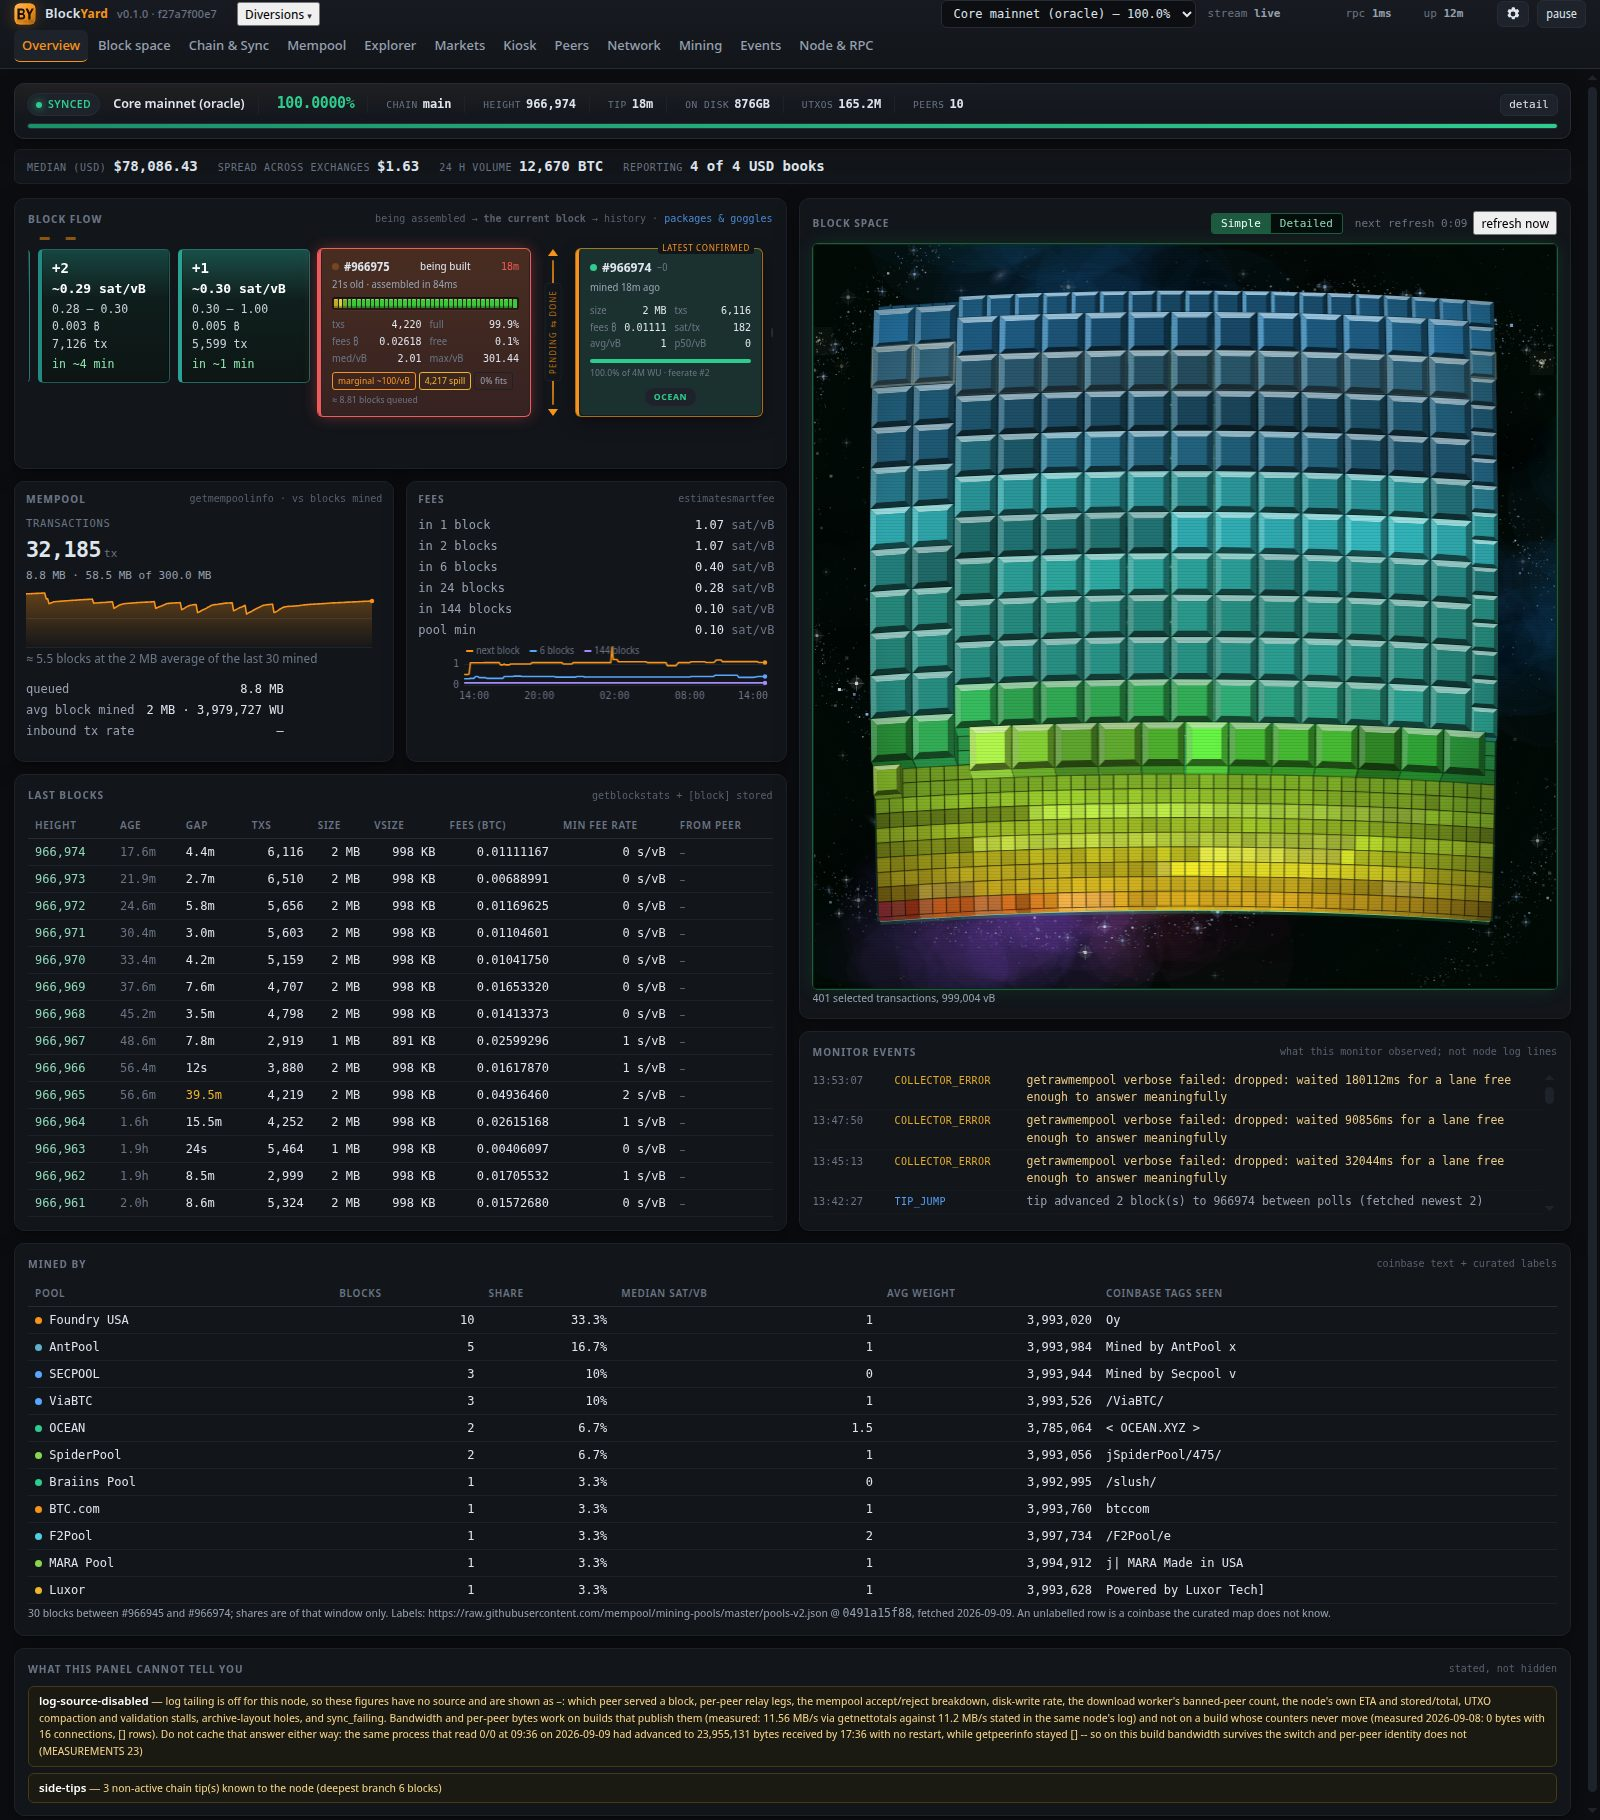
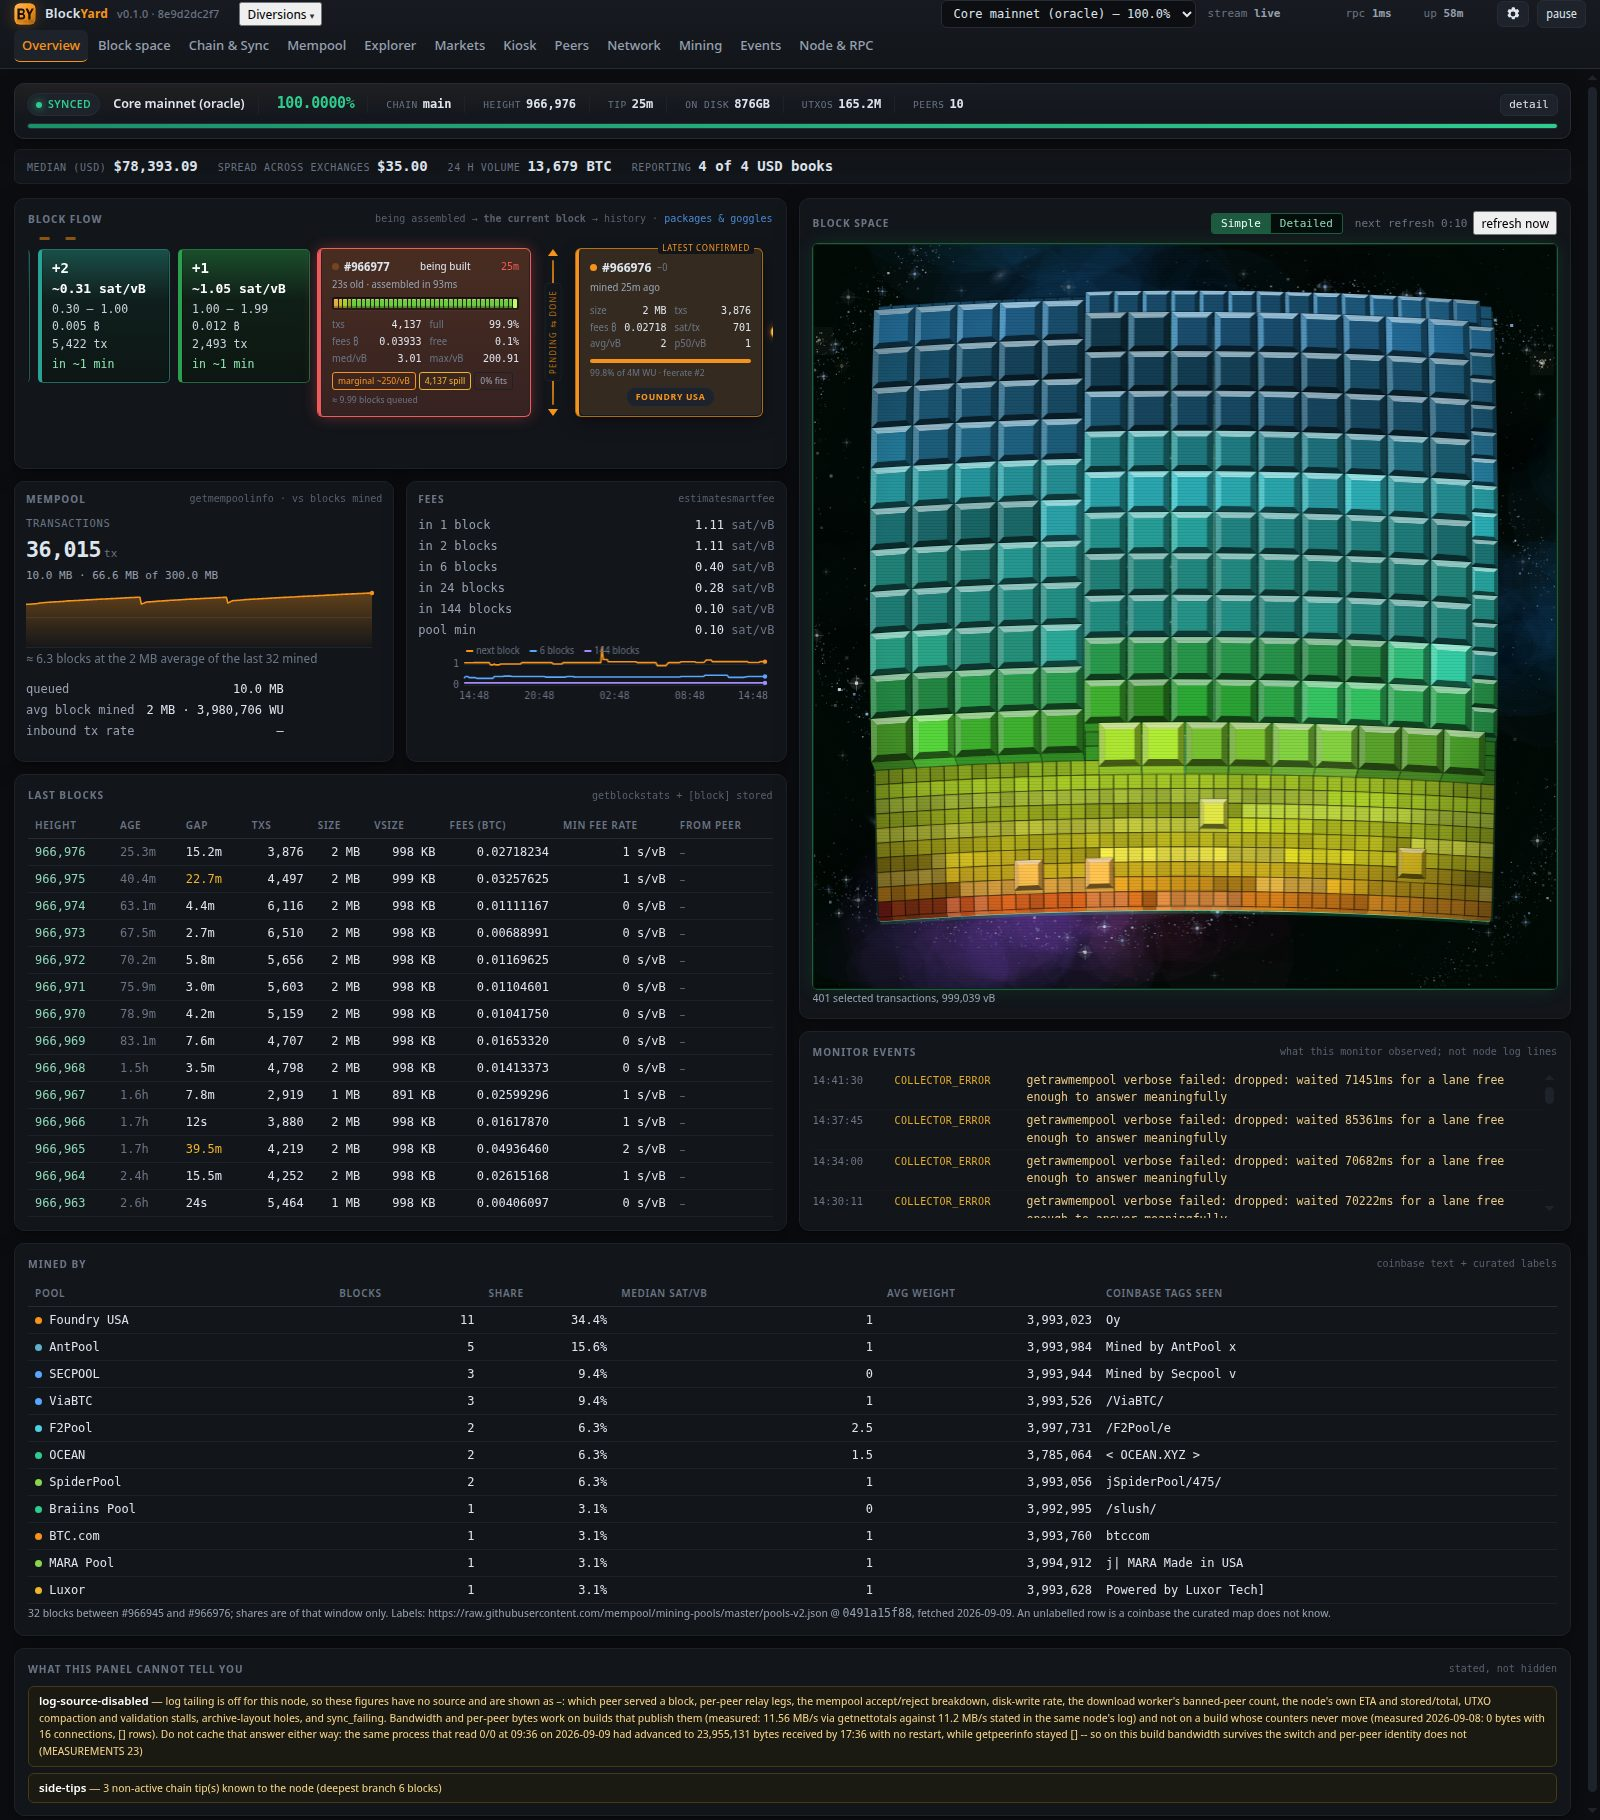
block flow: a chain that reads as one; about: the donation address, copied on a click
- The links between the block cards were two pale outlined pills that vanished on the dark
  panel (operator: "looks bad on a black background. Re-do it to be much more stylized and
  visible"). They are two interlocked links of a chain now: accent-coloured tubes with a bright
  highlight and a glow, the left link's top strand painted again over the right so the pair
  weaves. Inline SVG from mining.js (LINK), styled in app.css; the overview screenshot re-shot.
- The About page carries the donation address as a pill under the GitHub link; clicking it
  copies the address (fmt.copyText: navigator.clipboard in a secure context, select-and-copy on
  plain http), turns the hint to "copied" and toasts. Verified in a headless browser with
  clipboard permission: the clipboard reads back the address after one click. The address is
  the README's, and the test says so. scripts/shots.mjs can capture About.

Claude-Session: https://claude.ai/code/session_01VUGT6cgEeqoW8d5V7E6Vng

diff --git a/public/css/app.css b/public/css/app.css
@@ -106,6 +106,16 @@ button.brand:focus-visible { outline: 2px solid var(--accent); outline-offset: 3
 .abgh { display: inline-flex; align-items: center; gap: 10px; align-self: flex-start; padding: 9px 15px; border-radius: 999px;
   border: 1px solid #2a3543; background: rgba(8, 12, 18, .8); color: var(--fg); text-decoration: none; font-size: 13px; }
 .abgh:hover { border-color: var(--accent); color: var(--accent); }
+/* the donation address: the same pill, and the whole thing is the copy button */
+.abdon { display: inline-flex; align-items: center; flex-wrap: wrap; gap: 8px 12px; align-self: flex-start; padding: 9px 15px; border-radius: 999px;
+  border: 1px solid #2a3543; background: rgba(8, 12, 18, .8); color: var(--fg); font: inherit; font-size: 13px; cursor: pointer; text-align: left; }
+.abdon code { font-size: 12px; letter-spacing: .2px; color: var(--accent); }
+.abdon .abdonhint { font-size: 11px; color: var(--fg-faint); }
+.abdon:hover { border-color: var(--accent); }
+.abdon:hover .abdonhint { color: var(--fg-dim); }
+.abdon.done { border-color: var(--ok, #35c26f); }
+.abdon.done .abdonhint { color: var(--ok, #35c26f); }
+@media (max-width: 620px) { .abdon { border-radius: 14px; } }
 /* Solid white, not the dim grey the other captions use (operator, 2026-09-12) -- it is the
    one line on the page that is a statement rather than a reading. */
 .abcredit { margin: 0; padding-top: 6px; color: #ffffff; font-size: 13px; font-style: italic; letter-spacing: .3px; text-shadow: 0 1px 8px #000; }
@@ -966,21 +976,23 @@ canvas.chart.xs, .chart.xs { height: 86px }
 .bcard.ghost { background: transparent; box-shadow: none; }
 
 /* --- the chain ----------------------------------------------------------
-   Two interlocking links, drawn in the gap between cards. This is a picture of
-   what the cards describe: each block commits to the one before it. */
+   Two interlocking links of a real chain, drawn in the gap between cards: a
+   picture of what the cards describe -- each block commits to the one before
+   it. Accent-coloured tubes with a highlight and a glow, because the pale
+   outlines this used to be vanished against the dark panel (operator,
+   2026-09-14: "looks bad on a black background ... much more stylized and
+   visible"). The markup is an inline SVG in mining.js (LINK). */
 .chainlink {
   flex: 0 0 auto; align-self: center; position: relative;
-  width: 20px; height: 14px; margin: 0 -1px;
+  width: 34px; height: 20px; margin: 0 -2px;
 }
-.chainlink i {
-  position: absolute; top: 50%; width: 13px; height: 9px;
-  margin-top: -4.5px; border: 1.5px solid var(--line);
-  border-radius: 3px; background: transparent;
+.chainlink svg {
+  display: block; width: 100%; height: 100%; overflow: visible;
+  filter: drop-shadow(0 0 3px rgba(247, 147, 26, .55)) drop-shadow(0 1px 1px rgba(0, 0, 0, .6));
 }
-.chainlink i:first-child { left: 0; }
-/* the second ring overlaps the first, and is painted over it, which is what
-   makes the pair read as INTERLOCKED rather than as two boxes in a row */
-.chainlink i:last-child { right: 0; border-color: var(--fg-faint); }
+.chainlink .cl-base, .chainlink .cl-hi { fill: none; stroke-linecap: round; }
+.chainlink .cl-base { stroke: var(--accent-dim); stroke-width: 3.4; }
+.chainlink .cl-hi { stroke: #ffc862; stroke-width: 1.3; }
 
 /* --- the block being built ----------------------------------------------
    The coloured ring belongs HERE, not on the tip: it says how long this block
@@ -1040,16 +1052,8 @@ canvas.chart.xs, .chart.xs { height: 86px }
 .flowside.todo, .flowside.done { padding-top: 0; }
 
 /* --- the chain, made visible ---------------------------------------------
-   At 13px the links read as two pale pills. They are the one piece of this
-   panel that says what the panel IS -- each block commits to the one before
-   it -- so they get room and contrast. */
-.chainlink { width: 26px; height: 18px; }
-.chainlink i {
-  width: 17px; height: 11px; margin-top: -5.5px;
-  border: 2px solid var(--fg-faint); border-radius: 4px;
-}
-.chainlink i:first-child { left: 0; border-color: var(--line) }
-.chainlink i:last-child { right: 0; border-color: var(--fg-dim) }
+   The one piece of this panel that says what the panel IS, so it gets room. */
+.chainlink { width: 40px; height: 22px; }
 
 /* --- the row may exceed the panel; a chopped card is not a design ---------
    `.flow { width: 100% }` above contradicted the comment right beside it: the

diff --git a/test/about.test.js b/test/about.test.js
@@ -15,6 +15,8 @@ const api = read('../server/http/api.js');
 const app = read('../public/js/app.js');
 const css = read('../public/css/app.css');
 const about = read('../public/js/about.js');
+const fmt = read('../public/js/fmt.js');
+const readme = read('../README.md');
 
 test('the monogram IS the About link, and it satisfies the same contract a nav tab does', () => {
   // It lives outside <nav>, so it cannot inherit the nav's delegated click handler.
@@ -37,6 +39,16 @@ test('About shows what the operator asked for, and nothing is a placeholder', ()
   assert.match(section, /github\.com\/BobClawblaw\/blockyard/, 'a link to the project');
   assert.match(section, /<svg viewBox="0 0 16 16"[^>]*>[\s\S]*?<\/svg>/, 'the GitHub mark, drawn inline');
   assert.match(section, /Entirely made by machines\. Directed by human hands\./, 'the closing line, verbatim');
+  // the donation address, and one click copies it (operator, 2026-09-14: "Add the bitcoin donation
+  // address to the about screen ... Clicking on the address should copy to clipboard")
+  const ADDR = 'bc1q249cv27lc2q7y0x53vkczgfvvgsjzhwxwv42gc';
+  assert.match(section, new RegExp(`<button type="button" class="abdon" id="abDonate" data-copy="${ADDR}"`), 'the address is a button carrying itself to copy');
+  assert.ok(section.includes(`<code>${ADDR}</code>`), 'and shown in full');
+  assert.ok(readme.includes(ADDR), 'the same address the README gives');
+  assert.match(about, /getElementById\('abDonate'\)/, 'about.js finds it');
+  assert.match(about, /copyText\(btn\.dataset\.copy\)/, 'and copies what it carries');
+  assert.match(about, /bindDonate\(h\)/, 'from the render');
+  assert.match(fmt, /export function copyText/, 'the copy helper is shared from fmt.js');
   // the galaxy is forced on here rather than following the sky switch: this page has no data for
   // it to obscure, which is the whole reason it is the backdrop
   assert.match(about, /stars: true, galaxy: true/, 'the galaxy is on for About regardless of the board switches');

diff --git a/public/js/mining.js b/public/js/mining.js
@@ -640,7 +640,18 @@ export function blockFlow(el, { tipHeight = null, recent = [], stats = [], next 
 // The link between two blocks in the train. It is a picture of the thing the cards
 // are actually describing -- each block commits to the one before it -- and it is
 // markup rather than a ::before so the row's flex gaps stay predictable.
-const LINK = '<span class="chainlink" aria-hidden="true"><i></i><i></i></span>';
+// Drawn as two INTERLOCKED links of a real chain (operator, 2026-09-14: "That chain graphic between
+// the blocks looks bad on a black background. Re-do it to be much more stylized and visible"): each
+// link is a dark accent tube with a bright highlight along it, and the left link's top strand is
+// painted again over the right link so the pair weaves -- over at the top, under at the bottom.
+const CHAIN_SVG = (() => {
+  const a = '<rect x="2" y="4.5" width="20" height="11" rx="5.5"/>';
+  const b = '<rect x="16" y="4.5" width="20" height="11" rx="5.5"/>';
+  const weave = '<path d="M16.5 4.5a5.5 5.5 0 0 1 5.5 5.5"/>';
+  const tube = (shape) => `<g class="cl-base">${shape}</g><g class="cl-hi">${shape}</g>`;
+  return `<svg viewBox="0 0 38 20" aria-hidden="true">${tube(a)}${tube(b)}${tube(weave)}</svg>`;
+})();
+const LINK = `<span class="chainlink" aria-hidden="true">${CHAIN_SVG}</span>`;
 
 /*
  * THE FORECAST SLIVERS ARE GONE (2026-09-11, operator: "too much space is

diff --git a/public/js/about.js b/public/js/about.js
@@ -12,6 +12,7 @@
 // watching costs one cheap repaint rather than a megapixel one.
 import { board3d } from './details3d.js';
 import { loadSettings, spaceOptions } from './settings.js';
+import { copyText } from './fmt.js';
 
 const SKY = {
   gridW: 24, gridH: 16,
@@ -50,8 +51,21 @@ const esc = (s) => String(s ?? '').replace(/[&<>"]/g, (c) => ({ '&': '&amp;', '<
  * code at boot), the host from /api/about, and the node's own version string from the snapshot
  * that every other page is already using.
  */
+// the donation address copies on click, once bound (the section is static markup, so once is enough)
+function bindDonate(h) {
+  const btn = document.getElementById('abDonate');
+  if (!btn || btn.__bound) return;
+  btn.__bound = true;
+  btn.addEventListener('click', () => {
+    copyText(btn.dataset.copy)
+      .then(() => { btn.classList.add('done'); btn.querySelector('.abdonhint').textContent = 'copied'; setTimeout(() => { btn.classList.remove('done'); btn.querySelector('.abdonhint').textContent = 'click to copy'; }, 1600); h.toast?.('address copied', 'ok'); })
+      .catch(() => h.toast?.('the browser refused to copy', 'bad'));
+  });
+}
+
 export function renderAbout(s, state, h) {
   drawSky();
+  bindDonate(h);
 
   // one fetch, once -- the host's OS does not change while the page is open
   if (!S.asked) {

diff --git a/public/index.html b/public/index.html
@@ -339,6 +339,15 @@
             <span>github.com/BobClawblaw/blockyard</span>
           </a>
 
+          <!-- The donation address: one click copies it (operator, 2026-09-14). A button, not a link:
+               there is nowhere to go, and the address is the whole point. -->
+          <button type="button" class="abdon" id="abDonate" data-copy="bc1q249cv27lc2q7y0x53vkczgfvvgsjzhwxwv42gc" title="click to copy the address">
+            <svg viewBox="0 0 24 24" width="20" height="20" aria-hidden="true" focusable="false"><circle cx="12" cy="12" r="11" fill="var(--accent)"/><path fill="#1a1206" d="M9.2 6.2h1.5V4.8h1.6v1.4h1.1V4.8H15v1.5c1.6.3 2.6 1.2 2.6 2.7 0 1-.5 1.8-1.3 2.2 1.2.4 1.9 1.3 1.9 2.6 0 1.8-1.3 2.8-3.2 3v1.5h-1.6v-1.4h-1.1v1.4h-1.6v-1.5H9.2v-1.8h1.1V8h-1.1zm2.6 3.9h1.7c1 0 1.6-.4 1.6-1.2 0-.8-.6-1.2-1.6-1.2h-1.7zm0 4.4h2c1.1 0 1.8-.5 1.8-1.3s-.7-1.3-1.8-1.3h-2z"/></svg>
+            <span class="abdonlbl">If BlockYard is useful, tips are welcome</span>
+            <code>bc1q249cv27lc2q7y0x53vkczgfvvgsjzhwxwv42gc</code>
+            <span class="abdonhint">click to copy</span>
+          </button>
+
           <p class="abcredit">Entirely made by machines. Directed by human hands.</p>
         </div>
       </div>

diff --git a/public/js/fmt.js b/public/js/fmt.js
@@ -139,3 +139,24 @@ export function nodeWarnings(list) {
   if (!Array.isArray(list)) return [];
   return list.filter((w) => typeof w === 'string' && w.trim() && !PRE_RELEASE.test(w));
 }
+
+/**
+ * Copy text to the clipboard. The monitor is served over plain http on the LAN, where
+ * navigator.clipboard does not exist (it needs a secure context), so a select-and-copy fallback is
+ * kept. Resolves when copied, rejects when the browser refused. (public/js/explorer.js keeps its
+ * own copy of this: that file imports nothing by design.)
+ */
+export function copyText(text) {
+  if (globalThis.navigator?.clipboard && globalThis.isSecureContext) return navigator.clipboard.writeText(text);
+  return new Promise((resolve, reject) => {
+    const ta = document.createElement('textarea');
+    ta.value = text;
+    ta.setAttribute('readonly', '');
+    ta.className = 'xclip';
+    document.body.appendChild(ta);
+    ta.select();
+    const ok = document.execCommand?.('copy');
+    ta.remove();
+    if (ok) resolve(); else reject(new Error('copy refused'));
+  });
+}
